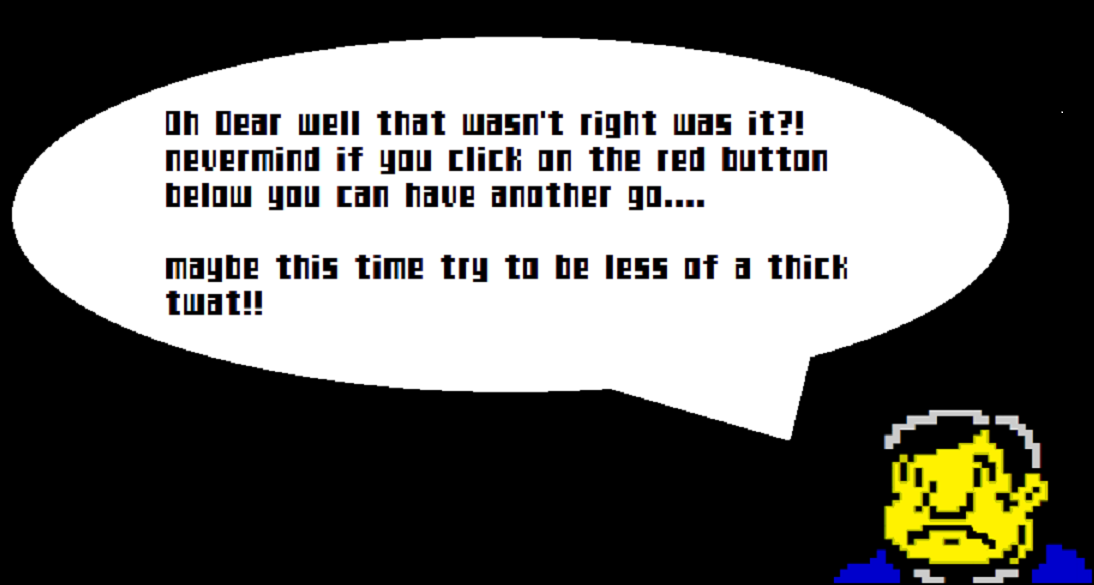
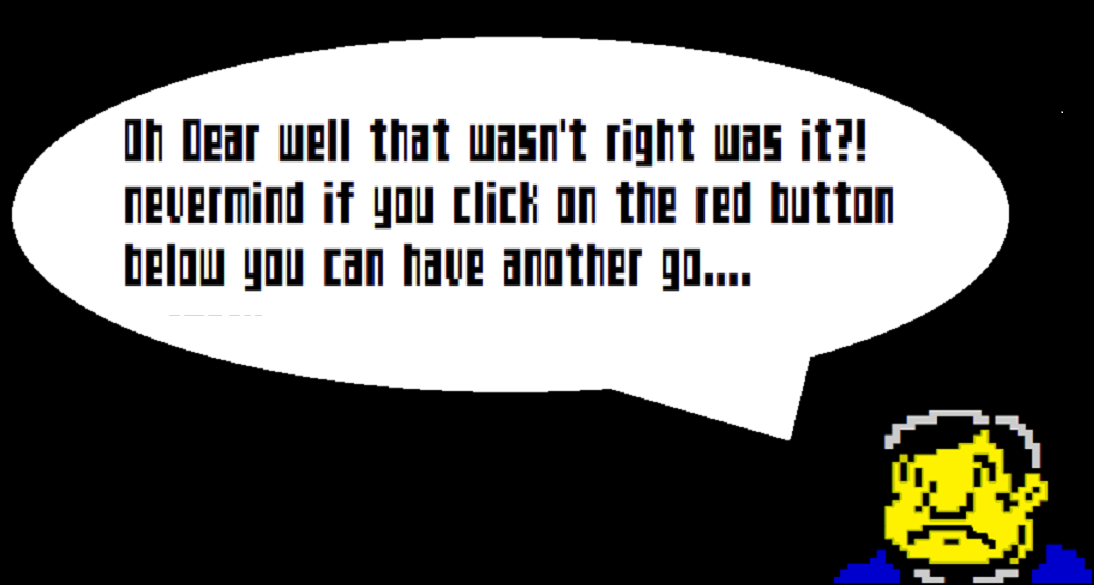
styling shamboozle

Changed region(s): [[0.0932, 0.1846, 0.8391, 0.5538]]

diff --git a/projects/Shamboozle/Question3.html b/projects/Shamboozle/Question3.html
@@ -27,17 +27,17 @@
 
         <img id="bamberqst1" src="bamberTalk.png" width=200 height=200 /> 
 
-        <p id="qst"> Question  :  Clockwise, name the order in which the colors appear on a Simon...<br></p>
+        <p id="qst"> Question 3 :  How many albums did Prince release in the 1980s<br></p>
         <br>
         <br>
 
         <img id="colqst" src="qsts.png" width=100 height=300>
 
         <p id="ans">
-        Red, blue, yellow, green.<br>
-        blue,yellow,red,green.<br>
-        Red, yellow, green, blue.<br>
-        Orange, gray, purple, yellow<br>   
+        11<br>
+        3<br>
+        6<br>
+        16<br>   
         </p>
 
 

diff --git a/projects/Shamboozle/Question9.html b/projects/Shamboozle/Question9.html
@@ -27,14 +27,14 @@
 
         <img id="bamberqst1" src="bamberTalk.png" width=200 height=200 /> 
 
-        <p id="qst"> Question  :  Which 80s movie was Alan Rickman’s first feature film role?<br></p>
+        <p id="qst"> Question 9 :  Which 80s movie was Alan Rickman’s first feature film role?<br></p>
         <br>
         <br>
 
         <img id="colqst" src="qsts.png" width=100 height=300>
 
         <p id="ans">
-        Robin Hood: Prince Of Thieves<br>
+        Robin Hood<br>
         Dogma<br>
         January Man<br>
         Die Hard<br>   

diff --git a/projects/Shamboozle/Question10.html b/projects/Shamboozle/Question10.html
@@ -27,7 +27,7 @@
 
         <img id="bamberqst1" src="bamberTalk.png" width=200 height=200 /> 
 
-        <p id="qst"> Question  :  Which 80s movie was this quote from: “Hello, my name is Inigo Montoya. You killed my father. Prepare to die!”<br></p>
+        <p id="qst"> Question 10 :  Which 80s movie was this quote from: “Hello, my name is Inigo Montoya. You killed my father. Prepare to die!”<br></p>
         <br>
         <br>
 

diff --git a/projects/Shamboozle/Question7.html b/projects/Shamboozle/Question7.html
@@ -27,7 +27,7 @@
 
         <img id="bamberqst1" src="bamberTalk.png" width=200 height=200 /> 
 
-        <p id="qst"> Question  :  Queen’s first song in 1980 was also her first Number One hit in the United States. Which song was it?<br></p>
+        <p id="qst"> Question 7 :  Queen’s first song in 1980 was also her first Number One hit in the United States. Which song was it?<br></p>
         <br>
         <br>
 

diff --git a/projects/Shamboozle/Question5.html b/projects/Shamboozle/Question5.html
@@ -27,7 +27,7 @@
 
         <img id="bamberqst1" src="bamberTalk.png" width=200 height=200 /> 
 
-        <p id="qst"> Question  :  On which street did "eric" live on where amazing transformations took place after eating a banana?<br></p>
+        <p id="qst"> Question 5 :  On which street did "eric" live on where amazing transformations took place after eating a banana?<br></p>
         <br>
         <br>
 

diff --git a/projects/Shamboozle/Question12.html b/projects/Shamboozle/Question12.html
@@ -27,7 +27,7 @@
 
         <img id="bamberqst1" src="bamberTalk.png" width=200 height=200 /> 
 
-        <p id="qst"> Question  :  Jayne Torville and Christopher Dean won Gold at the Sarajevo Winter Olympic Games.<br></p>
+        <p id="qst"> Question 12 :  Jayne Torville and Christopher Dean won Gold at the Sarajevo Winter Olympic Games.<br></p>
         <br>
         <br>
 

diff --git a/projects/Shamboozle/Question4.html b/projects/Shamboozle/Question4.html
@@ -27,7 +27,7 @@
 
         <img id="bamberqst1" src="bamberTalk.png" width=200 height=200 /> 
 
-        <p id="qst"> Question  :  What was the name coined by the media in the 80s for violent/gory movies? <br></p>
+        <p id="qst"> Question 4 :  What was the name coined by the media in the 80s for violent/gory movies? <br></p>
         <br>
         <br>
 

diff --git a/projects/Shamboozle/Question8.html b/projects/Shamboozle/Question8.html
@@ -27,7 +27,7 @@
 
         <img id="bamberqst1" src="bamberTalk.png" width=200 height=200 /> 
 
-        <p id="qst"> Question  :  Which song by the Bangles was the Hot 100 Number One song in 1986?<br></p>
+        <p id="qst"> Question 8 :  Which song by the Bangles was the Hot 100 Number One song in 1986?<br></p>
         <br>
         <br>
 

diff --git a/projects/Shamboozle/Question11.html b/projects/Shamboozle/Question11.html
@@ -27,7 +27,7 @@
 
         <img id="bamberqst1" src="bamberTalk.png" width=200 height=200 /> 
 
-        <p id="qst"> Question  :  What type of dinosaur is Littlefoot from The Land Before Time?<br></p>
+        <p id="qst"> Question 11 :  What type of dinosaur is Littlefoot from The Land Before Time?<br></p>
         <br>
         <br>
 

diff --git a/projects/Shamboozle/Question6.html b/projects/Shamboozle/Question6.html
@@ -27,7 +27,7 @@
 
         <img id="bamberqst1" src="bamberTalk.png" width=200 height=200 /> 
 
-        <p id="qst"> Question  :  Who is the best Ever actor to play James Bond....be Honest<br></p>
+        <p id="qst"> Question 6 :  Who is the best Ever actor to play James Bond....be Honest<br></p>
         <br>
         <br>
 

diff --git a/projects/Shamboozle/shamboozle.css b/projects/Shamboozle/shamboozle.css
@@ -207,7 +207,7 @@ aside {
 #ans{
 
     color:white;
-    font-size: 68px;
+    font-size: 67px;
     margin-left: 220px;
     margin-top: 10px;
     margin-bottom: 20px;
@@ -219,7 +219,7 @@ aside {
     float: left;
     margin-left: 50px;
     margin-right: 30px;
-    margin-bottom: 20px;
+    margin-bottom: 50px;
 }
 
 nav{

diff --git a/projects/Shamboozle/Question2.html b/projects/Shamboozle/Question2.html
@@ -27,7 +27,7 @@
 
         <img id="bamberqst1" src="bamberTalk.png" width=200 height=200 /> 
 
-        <p id="qst"> Question  : In the 1979 film Warriors what is it that you can dig?<br></p>
+        <p id="qst"> Question 2 : In the 1979 film Warriors what is it that you can dig?<br></p>
         <br>
         <br>
 
